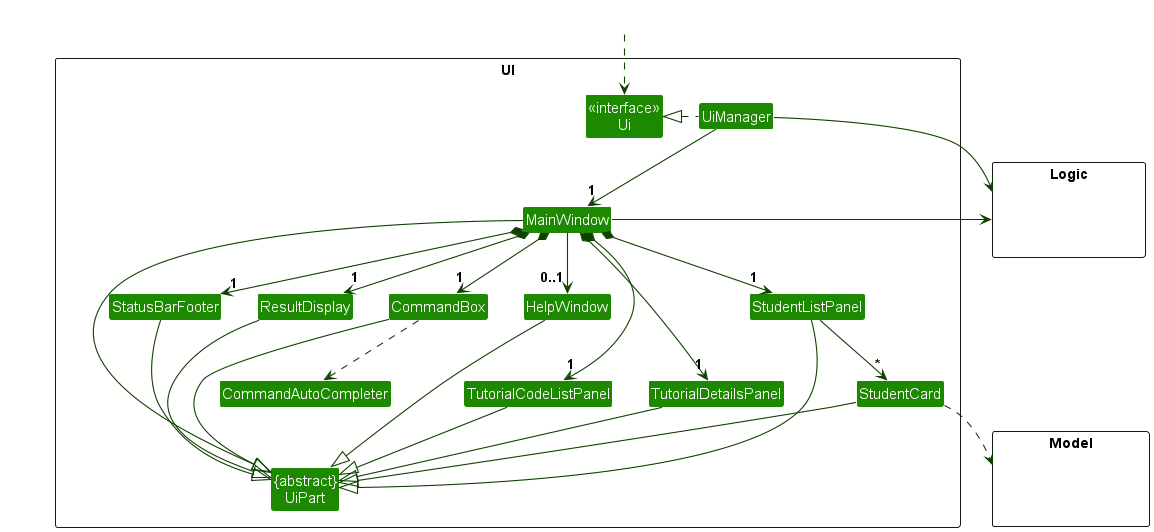
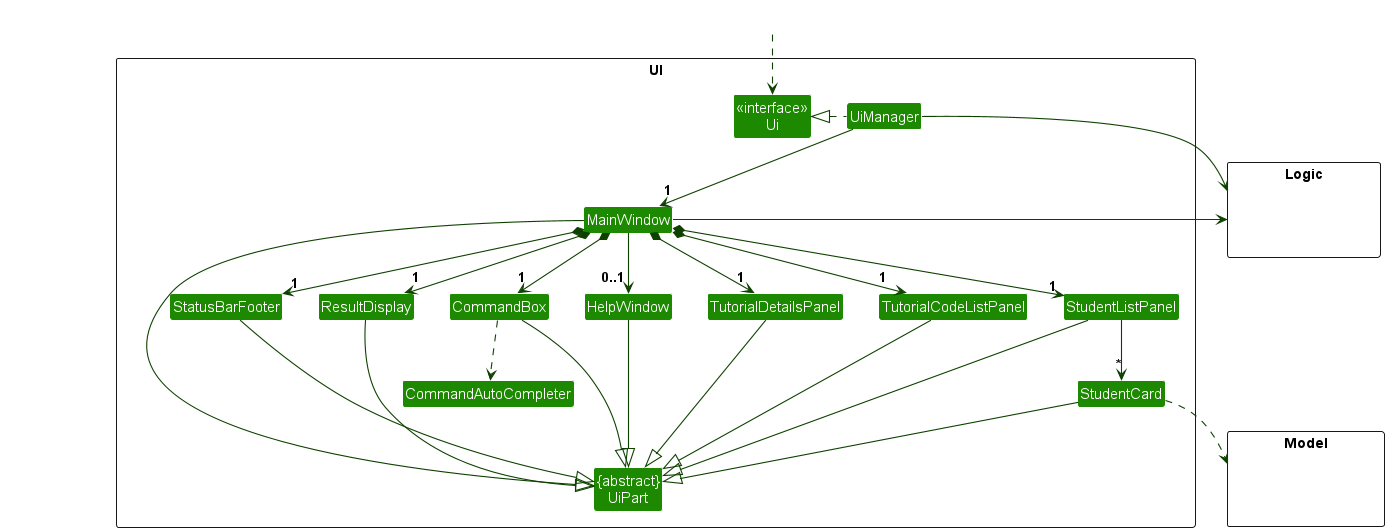
Update uml diagrams and context to match them

diff --git a/docs/DeveloperGuide.md b/docs/DeveloperGuide.md
@@ -73,7 +73,7 @@ The **API** of this component is specified in [`Ui.java`](https://github.com/AY2
 
 ![Structure of the UI Component](images/UiClassDiagram.png)
 
-The UI consists of a `MainWindow` that is made up of parts e.g.`CommandBox`, `ResultDisplay`, `StudentListPanel`, `StatusBarFooter` etc. All these, including the `MainWindow`, inherit from the abstract `UiPart` class which captures the commonalities between classes that represent parts of the visible GUI.
+The UI consists of a `MainWindow` that is made up of parts e.g. `CommandBox`, `ResultDisplay`, `StudentListPanel`, `TutorialCodeListPanel`, `TutorialDetailsPanel`, `StatusBarFooter` etc.. All these, including the `MainWindow`, inherit from the abstract `UiPart` class which captures the commonalities between classes that represent parts of the visible GUI.
 
 The `UI` component uses the JavaFx UI framework. The layout of these UI parts are defined in matching `.fxml` files that are in the `src/main/resources/view` folder. For example, the layout of the [`MainWindow`](https://github.com/AY2526S2-CS2103T-W13-4/tp/tree/master/src/main/java/seedu/coursepilot/ui/MainWindow.java) is specified in [`MainWindow.fxml`](https://github.com/AY2526S2-CS2103T-W13-4/tp/tree/master/src/main/resources/view/MainWindow.fxml).
 
@@ -83,6 +83,8 @@ The `UI` component,
 * listens for changes to `Model` data so that the UI can be updated with the modified data.
 * keeps a reference to the `Logic` component, because the `UI` relies on the `Logic` to execute commands.
 * depends on some classes in the `Model` component, as it displays `Student` object residing in the `Model`.
+* displays tutorial information across two panels, `TutorialCodeListPanel` shows the list of tutorial codes, and `TutorialDetailsPanel` shows the corresponding day, time slot, and capacity details.
+* displays each student's enrolled tutorials via `StudentCard`, which cross references the tutorial list to show tutorial tags on each student entry.
 
 ### Logic component
 
@@ -126,6 +128,7 @@ The `Model` component,
 * stores CoursePilot data i.e., all `Student` objects (which are contained in a `UniqueStudentList` object).
 * stores tutorial data i.e., all `Tutorial` objects (which are contained in a `UniqueTutorialList` object).
 * stores the currently 'selected' `Student` objects (e.g., results of a search query) as a separate _filtered_ list which is exposed to outsiders as an unmodifiable `ObservableList<Student>` that can be 'observed' e.g. the UI can be bound to this list so that the UI automatically updates when the data in the list change.
+* stores the currently selected `Tutorial` as the **current operating tutorial**, exposed as a JavaFX `ObjectProperty<Tutorial>` so the UI can reactively update when the selection changes.
 * stores the currently filtered tutorial list as an unmodifiable `ObservableList<Tutorial>` for UI binding and tutorial operations.
 * stores a `UserPrefs` object that represents the user’s preferences. This is exposed to the outside as a `ReadOnlyUserPrefs` object.
 * does not depend on any of the other three components (as the `Model` represents data entities of the domain, they should make sense on their own without depending on other components)
@@ -189,6 +192,7 @@ The suggestion states are:
 
 Users interact with suggestions via:
 - **Tab** — applies the currently highlighted suggestion
+- **Enter** — applies the currently highlighted suggestion
 - **Click** — applies the clicked suggestion
 - **Escape** — dismisses the suggestion menu
 
